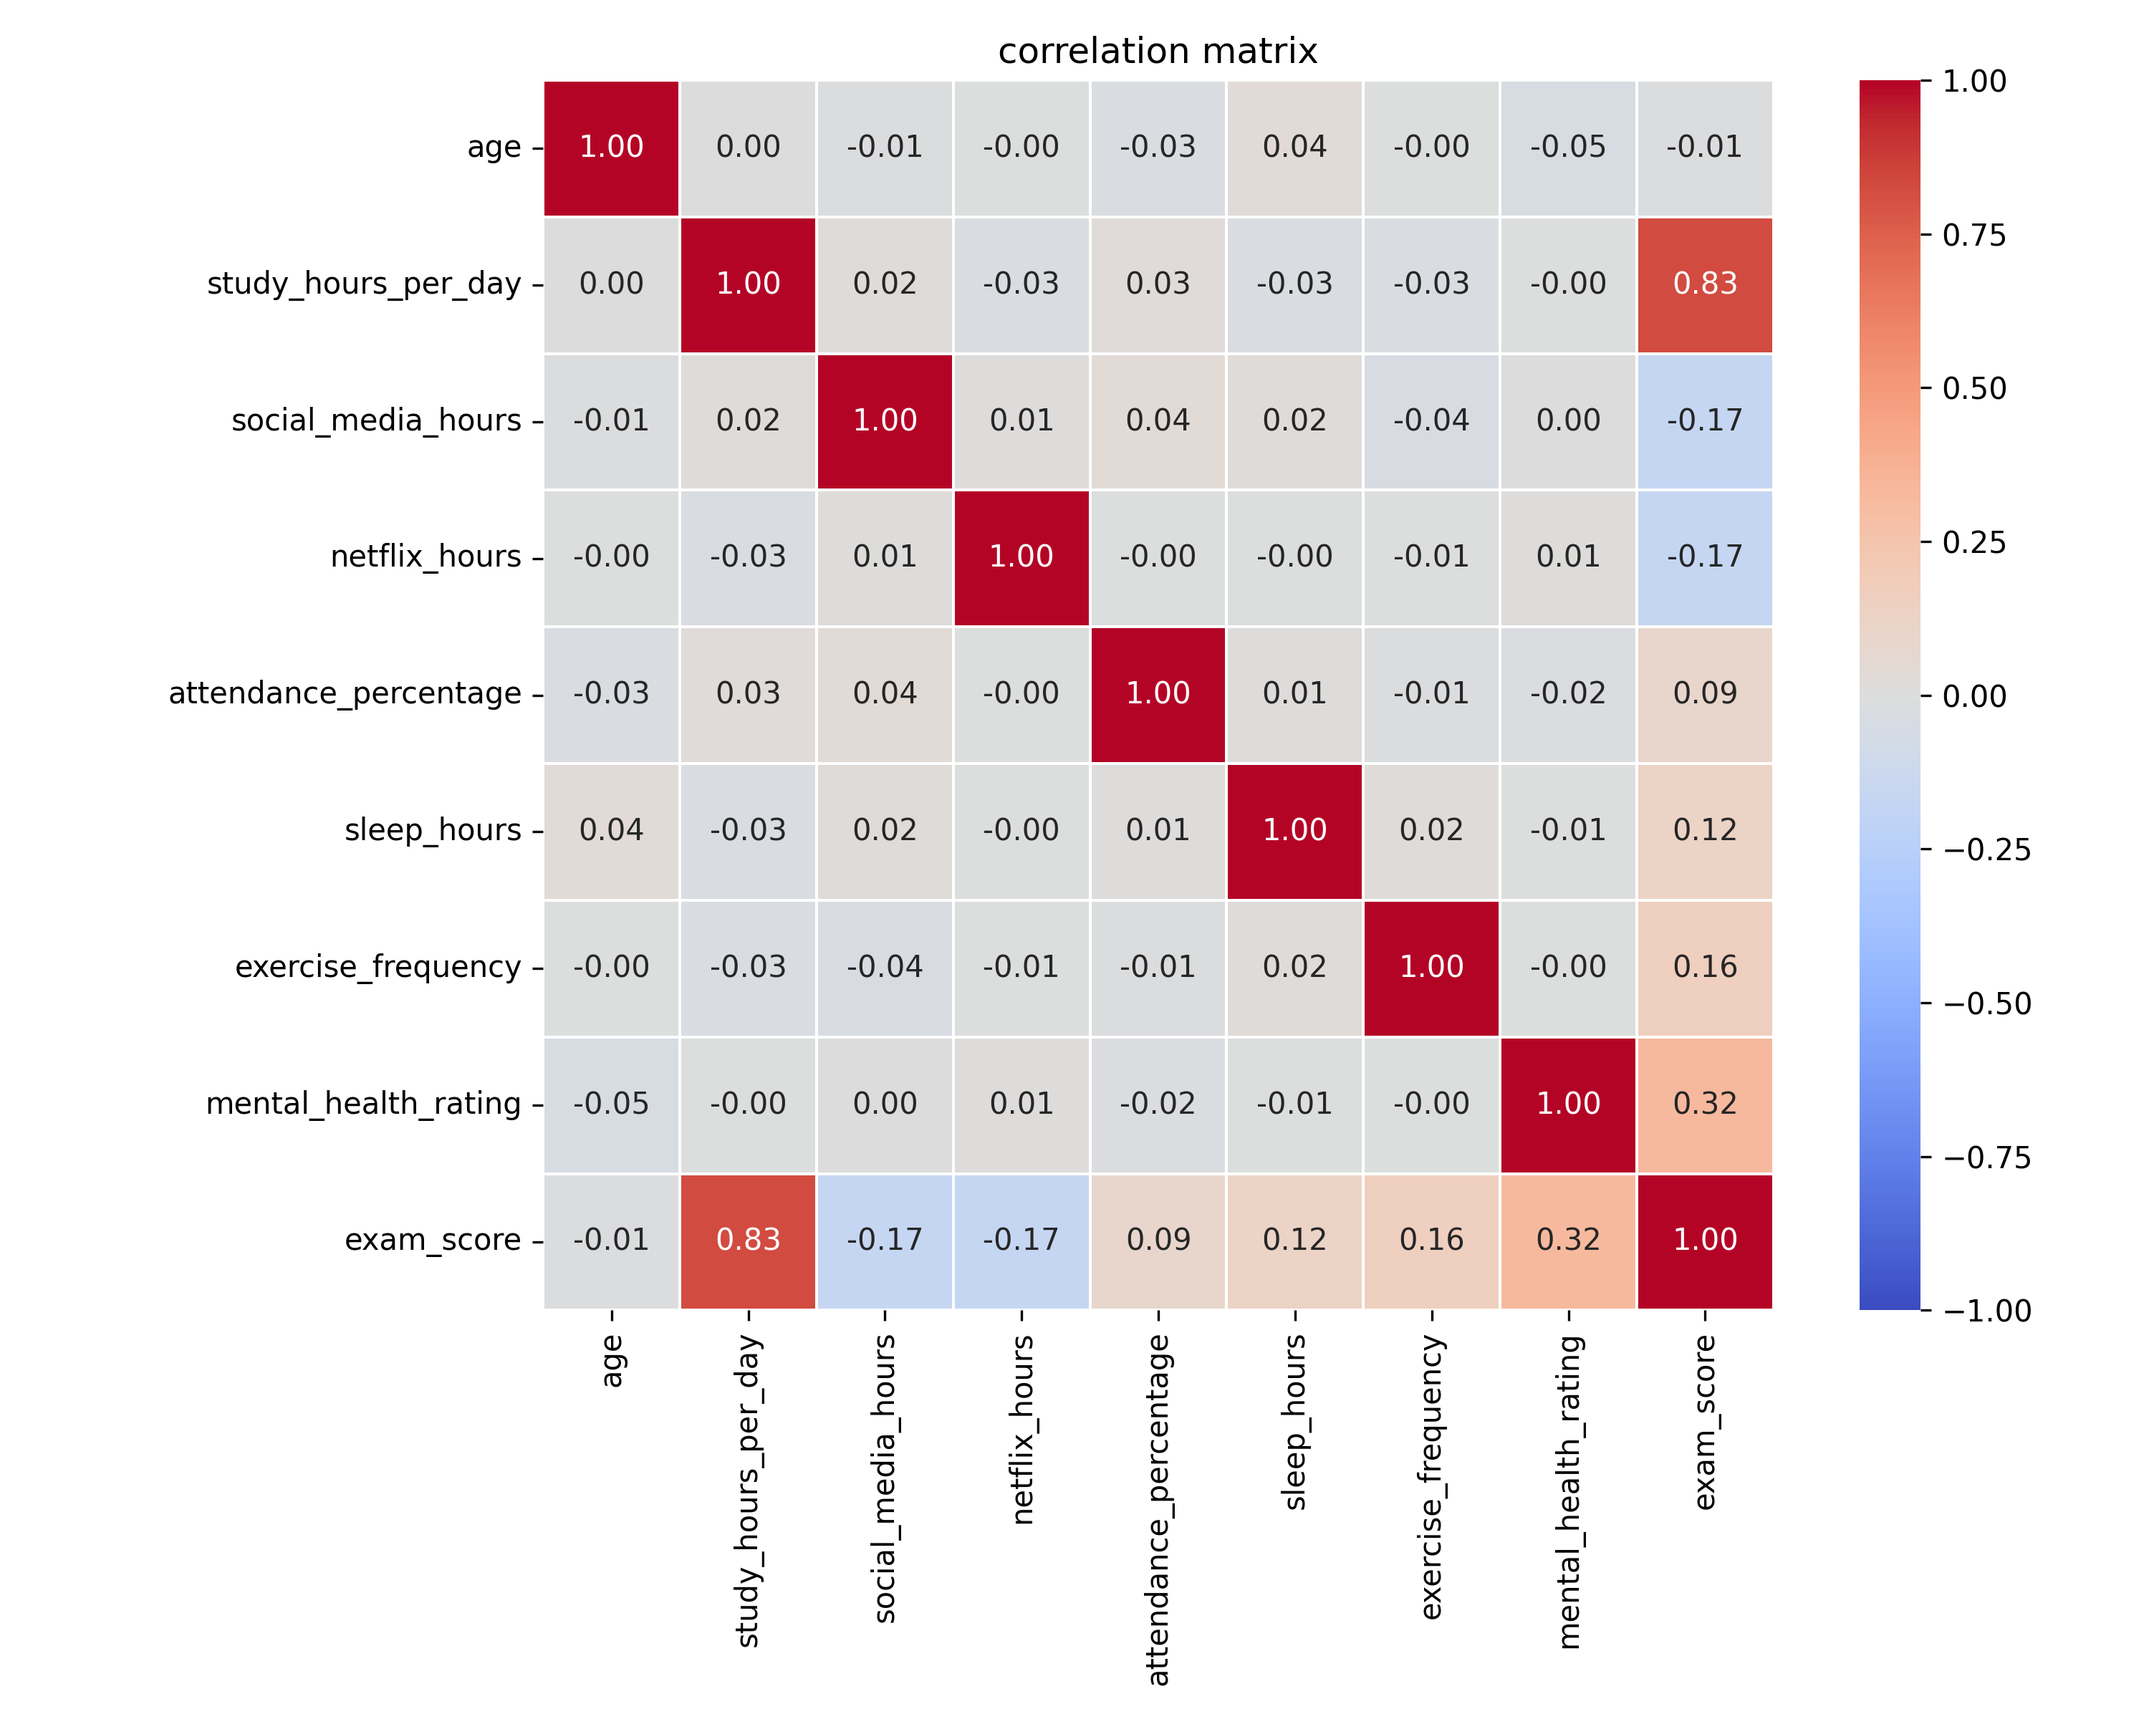
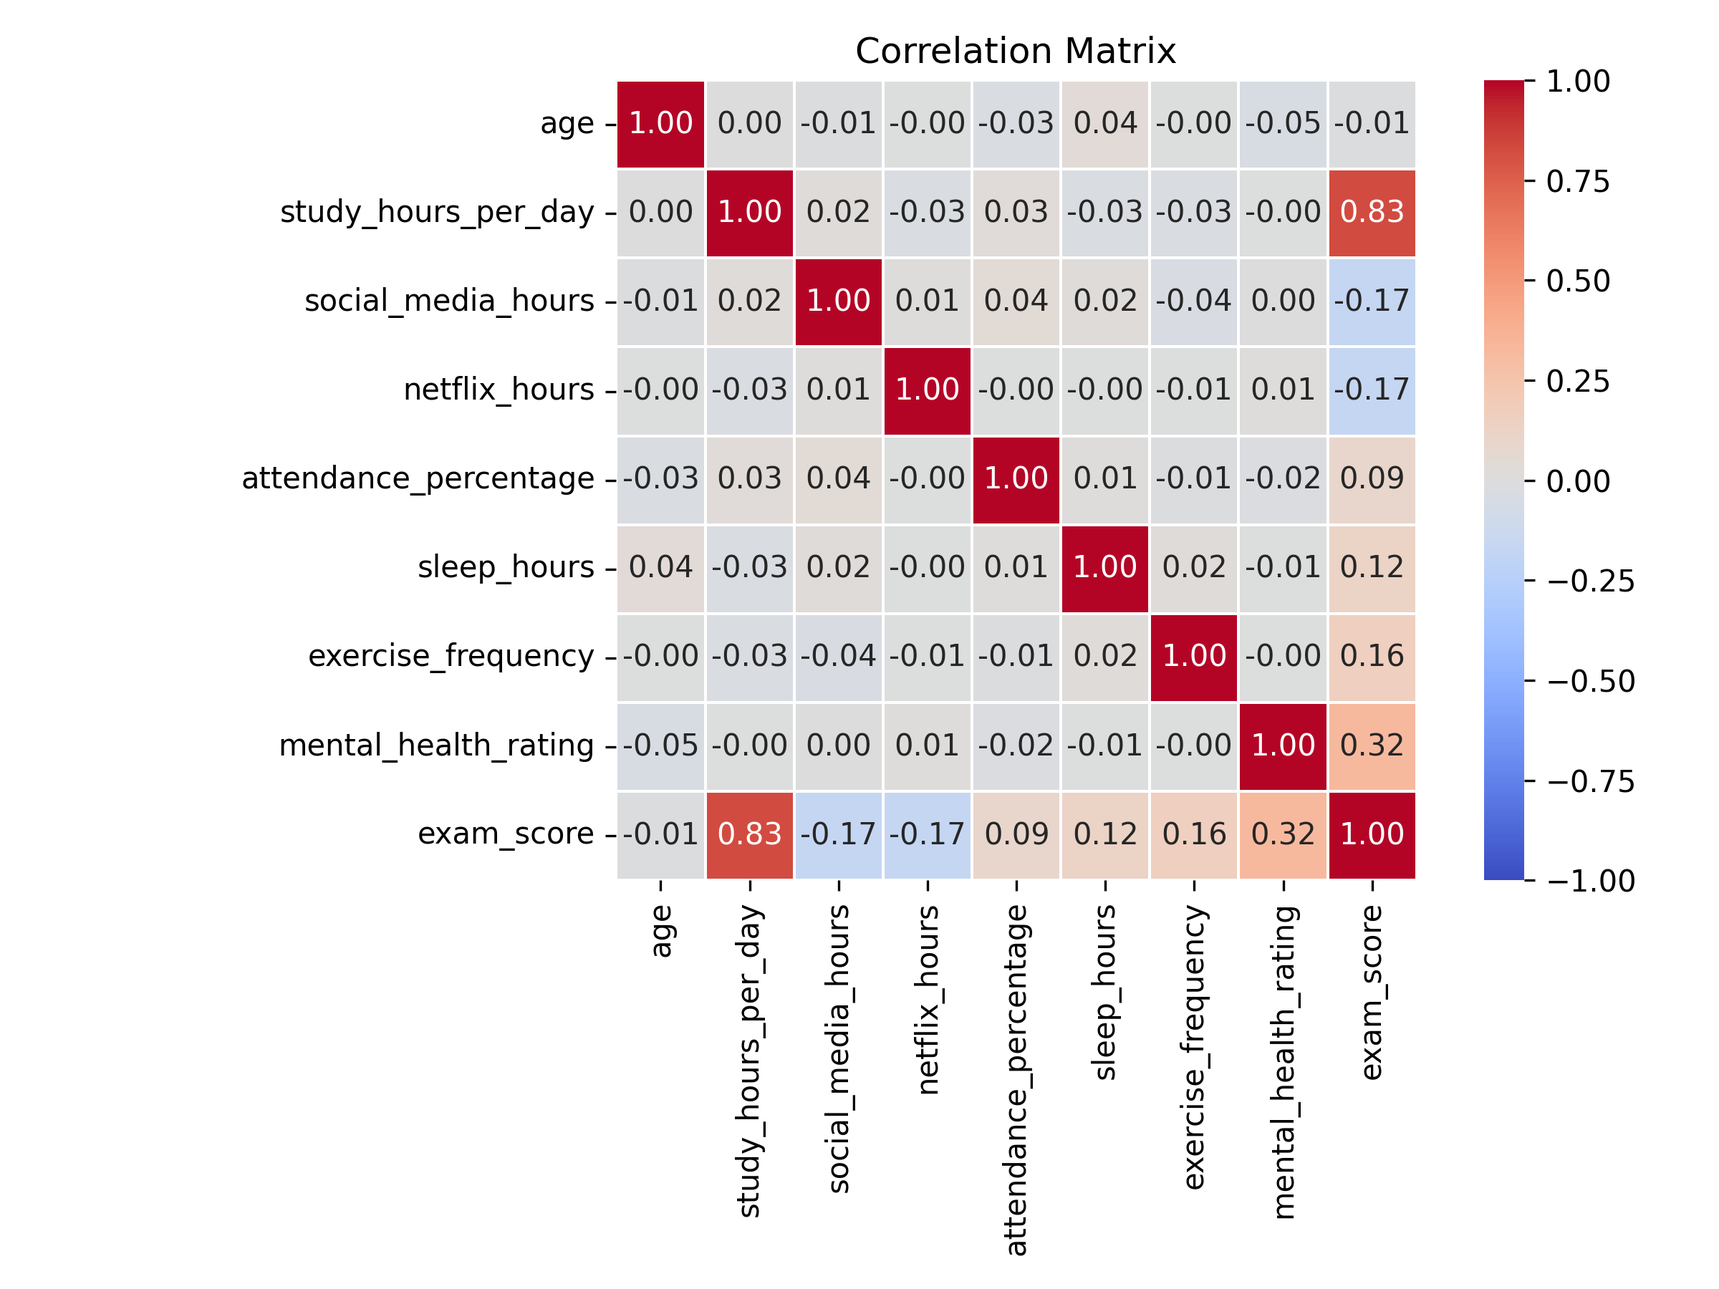
updated readme and figures

Changed region(s): [[0.0938, 0.0, 0.9375, 0.9644]]

diff --git a/analysis.py b/analysis.py
@@ -168,8 +168,8 @@ def distributions_grid(data: pd.DataFrame, out_dir: Path) -> None:
     plt.show()
 
 
-def scatter_grid_vs_score(data: pd.DataFrame, out_dir: Path, group_by: Text,  color_by: Text) -> None:
-    """Plot scatter grid of the numeric parameters compare to the score for sub groups.
+def scatter_grid_vs_score(data: pd.DataFrame, out_dir: Path, color_by: Text) -> None:
+    """Plot scatter grid of the numeric parameters compare to the score.
 
     The resulting figure is saved to `out_dir`.
 
@@ -179,36 +179,33 @@ def scatter_grid_vs_score(data: pd.DataFrame, out_dir: Path, group_by: Text,  co
         DataFrame containing an ``exam_score`` column.
     out_dir : Path
         Directory where the plot will be saved.
-    group_by: Text
-        Field to split the data.
     color_by: Text
         Field to color the points
     """
-    for group, group_data in data.groupby(group_by):
-        numeric_cols = group_data.select_dtypes(include=[np.number]).columns.tolist()
-        numeric_cols.remove("exam_score")
-        cols = 3
-        rows = int(np.ceil(len(numeric_cols) / cols))
-        fig, axes = plt.subplots(rows, cols, figsize=(6 * cols, 5 * rows))
-        axes = axes.flatten()
+    numeric_cols = data.select_dtypes(include=[np.number]).columns.tolist()
+    numeric_cols.remove("exam_score")
+    cols = 3
+    rows = int(np.ceil(len(numeric_cols) / cols))
+    fig, axes = plt.subplots(rows, cols, figsize=(6 * cols, 5 * rows))
+    axes = axes.flatten()
 
-        for i, col in enumerate(numeric_cols):
-            sns.scatterplot(data=group_data, x=col, y='exam_score', hue=color_by, ax=axes[i], alpha=0.6)
-            axes[i].set_title(f'{col} vs exam_score')
-            axes[i].set_xlabel(col)
-            axes[i].set_ylabel('exam_score')
+    for i, col in enumerate(numeric_cols):
+        sns.scatterplot(data=data, x=col, y='exam_score', hue=color_by, ax=axes[i], alpha=0.6)
+        axes[i].set_title(f'{col} vs exam_score')
+        axes[i].set_xlabel(col)
+        axes[i].set_ylabel('exam_score')
 
-        for j in range(i + 1, len(axes)):
-            fig.delaxes(axes[j])
+    for j in range(i + 1, len(axes)):
+        fig.delaxes(axes[j])
 
-        plt.suptitle(f"Scatter Grid - {group}")
-        plt.tight_layout()
-        plt.savefig(f"{out_dir}/scatter_grid_vs_score_{group}.png", dpi=300)
-        plt.show()
+    plt.suptitle(f"Scatter Grid")
+    plt.tight_layout()
+    plt.savefig(f"{out_dir}/scatter_grid_vs_score.png", dpi=300)
+    plt.show()
 
 
-def correlation_matrix(data: pd.DataFrame, out_dir: Path, group_by: Text):
-    """Plot correlation matrix for sub-groups.
+def correlation_matrix(data: pd.DataFrame, out_dir: Path):
+    """Plot correlation matrix for the data.
 
     The resulting figure is saved to `out_dir`.
 
@@ -218,26 +215,23 @@ def correlation_matrix(data: pd.DataFrame, out_dir: Path, group_by: Text):
         DataFrame containing an ``exam_score`` column.
     out_dir : Path
         Directory where the plot will be saved.
-    group_by: Text
-        Field to split the data.
     """
-    for group, data in data.groupby(group_by):
-        plt.figure(figsize=(8, 6))
-        corr_matrix = data.select_dtypes(include=[np.number]).corr()
-        sns.heatmap(
-            corr_matrix,
-            annot=True,
-            fmt=".2f",
-            cmap="coolwarm",
-            center=0,
-            vmin=-1, vmax=1,
-            linewidths=0.5,
-            square=True,
-        )
-        plt.title(f"Correlation Matrix - {group}")
-        plt.tight_layout()
-        plt.savefig(f"{out_dir}/correlation_matrix_{group}.png", dpi=300)
-        plt.show()
+    plt.figure(figsize=(8, 6))
+    corr_matrix = data.select_dtypes(include=[np.number]).corr()
+    sns.heatmap(
+        corr_matrix,
+        annot=True,
+        fmt=".2f",
+        cmap="coolwarm",
+        center=0,
+        vmin=-1, vmax=1,
+        linewidths=0.5,
+        square=True,
+    )
+    plt.title(f"Correlation Matrix")
+    plt.tight_layout()
+    plt.savefig(f"{out_dir}/correlation_matrix.png", dpi=300)
+    plt.show()
 
 
 def correlation_analysis(data: pd.DataFrame, out_dir: Path) -> None:
@@ -332,12 +326,35 @@ def logistic_model_statsmodels(X: pd.DataFrame, y: pd.Series) -> None:
     y : pd.Series
         Binary target variable.
     """
-    # Add constant term for intercept
-    X_sm = sm.add_constant(np.asarray(X))
-    logit_model = sm.Logit(y, X_sm)
+    # Add constant term for intercept and ensure numeric types
+    X_sm = sm.add_constant(X)
+    # Statsmodels requires purely numeric arrays; cast to float to avoid 'object' dtype
+    X_sm = X_sm.astype(float)
+    y_numeric = y.astype(float)
+    logit_model = sm.Logit(y_numeric, X_sm)
     result = logit_model.fit(disp=False)
     print("Logistic regression (statsmodels) summary:")
     print(result.summary2().as_text())
+
+    # Likelihood ratio test comparing the full model to an intercept-only model
+    ll_full = result.llf
+    # Fit a null model with only the intercept
+    null_model = sm.Logit(y_numeric, np.ones((len(y_numeric), 1))).fit(disp=False)
+    ll_null = null_model.llf
+    lr_stat = -2 * (ll_null - ll_full)
+    df_diff = X.shape[1]  # degrees of freedom difference
+    p_value = stats.chi2.sf(lr_stat, df=df_diff)
+    print("\nLikelihood ratio test (full model vs null model):")
+    print(f"  LR statistic: {lr_stat:.3f}")
+    print(f"  Degrees of freedom: {df_diff}")
+    print(f"  p-value: {p_value:.3e}")
+    # Highlight coefficient for study hours
+    if 'study_hours_per_day' in X.columns:
+        coef = result.params['study_hours_per_day']
+        print(
+            f"\nCoefficient for study_hours_per_day: {coef:.3f} (log-odds); "
+            f"exp(coef) ≈ {np.exp(coef):.1f}"
+        )
     print()
 
 
@@ -447,11 +464,9 @@ def main() -> None:
     # Plot distributions of the numeric parameters
     distributions_grid(df, figures_dir)
 
-    correlation_matrix(df, figures_dir, "parental_education_level")
-    correlation_matrix(df, figures_dir, "gender")
+    correlation_matrix(df, figures_dir)
 
-    scatter_grid_vs_score(df, figures_dir, "parental_education_level", "gender")
-    scatter_grid_vs_score(df, figures_dir, "gender", "parental_education_level")
+    scatter_grid_vs_score(df, figures_dir, "gender")
 
     # Correlation analysis for study hours vs exam score
     correlation_analysis(df, figures_dir)
@@ -460,7 +475,7 @@ def main() -> None:
     x, y = prepare_features(df)
 
     # Fit logistic regression using statsmodels for interpretability
-    # logistic_model_statsmodels(x, y)
+    logistic_model_statsmodels(x, y)
 
     # Train classification models and evaluate
     classification_models(x, y, figures_dir)

diff --git a/README.md b/README.md
@@ -43,6 +43,9 @@ classifying students into high‐ and low‐performing groups.
    console.  It also writes the following figures to the `figures/`
    directory:
 
+   * `correlation_matrix.png` – a matrix correlation matrix of the features in the data.
+   * `distribution_grid.png` – a histograms of all the numeric features overlaid normal distribution.
+   * `scatter_grid_vs_score.png` – scatter plot for numeric features VS exam scores, colored by gender.
    * `exam_score_distribution.png` – a histogram of exam scores with
      an overlaid normal distribution and mean marker.
    * `exam_vs_study_hours.png` – a scatter plot of exam score versus
